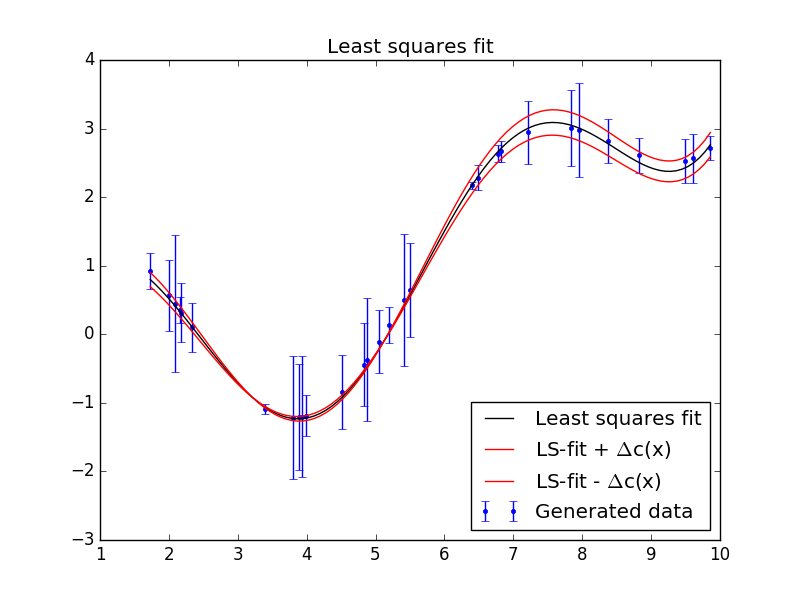
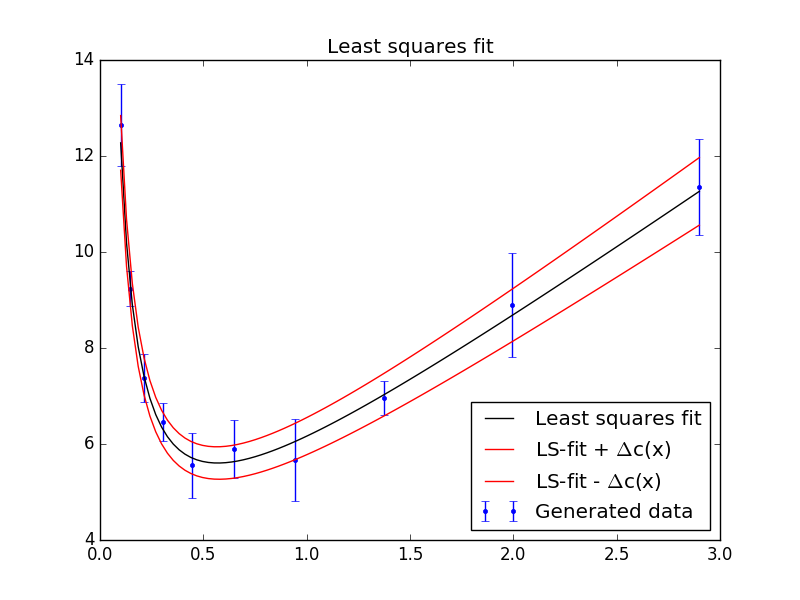
finished leastsquares

diff --git a/leastsquaresfit/main.py b/leastsquaresfit/main.py
@@ -5,23 +5,22 @@ from LSbyQR import *
 
 
 def f1(x):
-	return np.sin(x)
+	return 1/x
 def f2(x):
-	return np.cos(x)
+	return 1
 def f3(x):
-	return np.sqrt(x)
-def f4(x):
-	return np.exp(x)
-def f5(x):
 	return x
+#def f4(x):
+#	return np.exp(x)
+#def f5(x):
+#	return x
 
-f = [f1,f2,f3,f4,f5]
+f = [f1,f2,f3]
 
-#generate 100 random pts to fit with least squares
-x    = np.random.rand(30)*10
-x.sort()
-y    = np.cos(x)+np.sin(x)-np.sqrt(x)+np.exp(x/5)
-dy   = np.random.random(len(x))
+x    = [ 0.100, 0.145, 0.211, 0.307, 0.447, 0.649, 0.944, 1.372, 1.995, 2.900]
+#x.sort()
+y    = [ 12.644, 9.235, 7.377, 6.460, 5.555, 5.896, 5.673, 6.964, 8.896, 11.355]
+dy   = [ 0.858, 0.359, 0.505, 0.403, 0.683, 0.605, 0.856, 0.351, 1.083, 1.002]
 c1,S1 = lsfit(x,y,dy,f)
 
 pts    = np.linspace(min(x),max(x),100)
